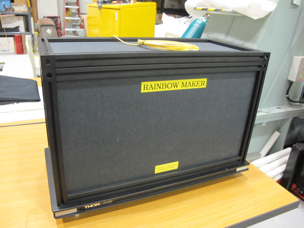
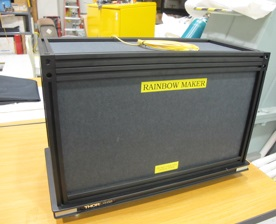
reduced image sizes

diff --git a/020instrument.web/010wfsc.web/content.html b/020instrument.web/010wfsc.web/content.html
@@ -22,7 +22,7 @@
   Since it is quite difficult to obtain a pyramidal optic we chose a non-traditional approach to build our PyWFS. The concept we use utilizes two roof prisms oriented so that the roof vertices are orthogonal to one another (one is horizontal and the other is vertical). This concept is shown on the Figure below, on the right.
 </p>
 <center>
-  <img border="0" src="Pyramid_config.png" alt='Picture of the PyWFS images' width=650>
+  <img border="0" src="Pyramid_config.jpg" alt='Picture of the PyWFS images' width=650>
   <p><small>Left: Schematic of the roof prism pyramid optic concept ; Right: Roof prism assembly diffracting a collimated beam into 4 beamlets.</small></p>
 </center>
 <p>
@@ -42,7 +42,7 @@
 The PyWFS works on-sky and typically corrects up to 1200 modes improving the PSF stability for science observations (see images on our internal science camear below, with and without the PyWFS loop closure).
 </p>
 <center>
-<img border="0" src="Image_openclose_loop.png" alt='PyWFS images' width=500>
+<img border="0" src="Image_openclose_loop.jpg" alt='PyWFS images' width=500>
 <p><small>Left: Internal science camera with the PyWFS loop open ; Right: Internal science camera with the PyWFS loop close. Full video available on this <a href=https://www.youtube.com/watch?v=csPSzkZ0vMY>link</a></small></p>
 </center>
 <p>

diff --git a/010usingSCExAO.web/030techdev.web/content.html b/010usingSCExAO.web/030techdev.web/content.html
@@ -10,7 +10,7 @@ SCExAO also serves as a testbed for technology development. Its internal broadba
 
 <center>
 <p>
-<a href="image_SCExAO_testbed_Contrast.png"> <img src="image_SCExAO_testbed_Contrast.png" alt="Contrast" width="500px"></a>
+<a href="image_SCExAO_testbed_Contrast.jpg"> <img src="image_SCExAO_testbed_Contrast.jpg" alt="Contrast" width="600px"></a>
 </p>
 SCExAO raw contrast level and contrast stability measured with the broadband internal source.
 </center>
@@ -25,7 +25,7 @@ SCExAO raw contrast level and contrast stability measured with the broadband int
 
 <center>
 <p>
-<a href="image_SCExAO_testbed_LDFC.png"> <img src="image_SCExAO_testbed_LDFC.png" alt="Contrast" width="500px"></a>
+<a href="image_SCExAO_testbed_LDFC.jpg"> <img src="image_SCExAO_testbed_LDFC.jpg" alt="Contrast" width="600px"></a>
 </p>
 Example WFC research with SCExAO: Linear Dark Field Control (LDFC) uses a focal plane image to close the wavefront control loop.
 </center>

diff --git a/010usingSCExAO.web/010currentcap.web/050calibration.web/content.html b/010usingSCExAO.web/010currentcap.web/050calibration.web/content.html
@@ -13,8 +13,8 @@ The internal calibration source consists of a Fianium super continuum source and
  
 
   <center>
-  <img border="0" src="superK_1.jpg" alt="Pulpit rock" width="350" height="228">
-  <img border="0" src="superK_2.jpg" alt="Pulpit rock" width="320" height="228">
+  <img border="0" src="superK_1.jpg" alt="Pulpit rock" width="320" height="228">
+  <img border="0" src="superK_2.jpg" alt="Pulpit rock" width="300" height="228">
   <img border="0" src="superK_3.jpg" alt="Pulpit rock" width="180" height="228">
   <p>
   <small>
